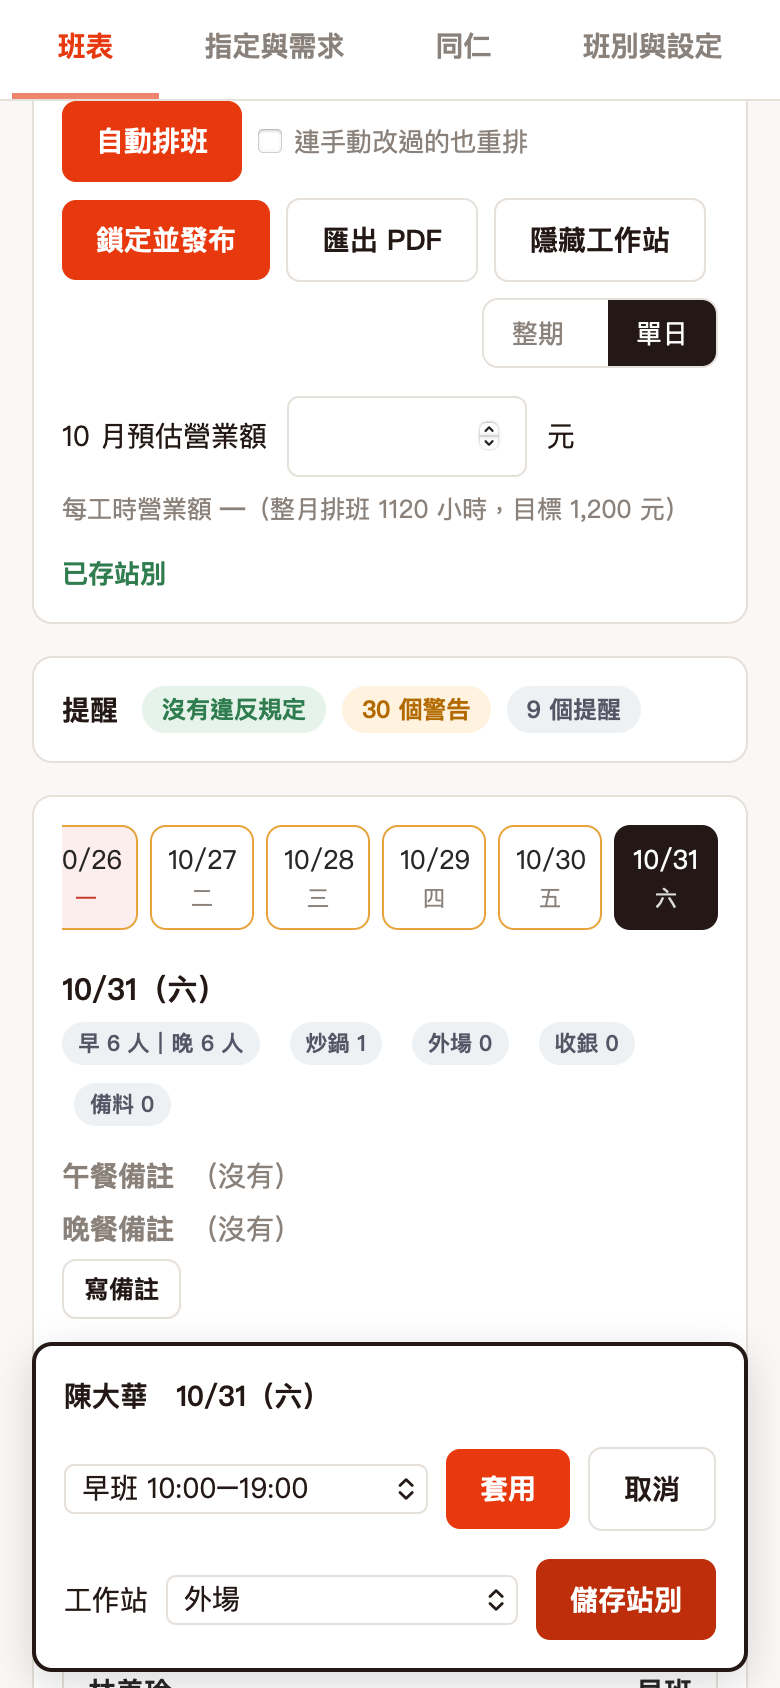
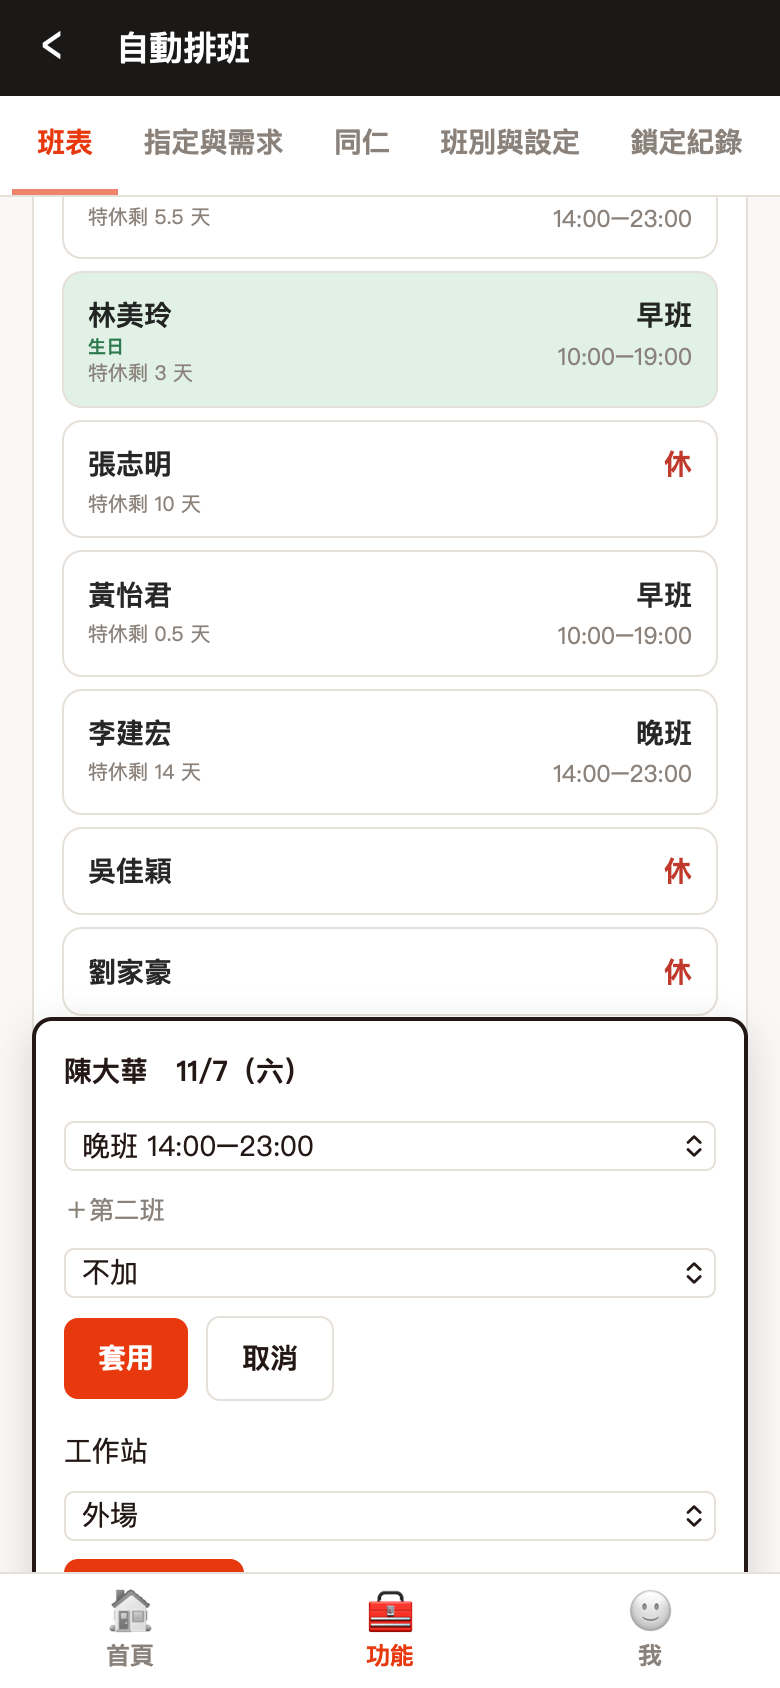
排班圖解：一天兩班、總部出差＋門市班；手機編輯框排版（mala-store-ops#123）

Changed region(s): [[0.0, 0.0, 1.0, 1.0], [0.9538, 0.6161, 0.9846, 0.8009], [0.8615, 0.7393, 0.9231, 0.7701]]

diff --git a/schedule-guide.html b/schedule-guide.html
@@ -38,6 +38,7 @@ footer{text-align:center;color:var(--muted);font-size:12.5px;margin-top:20px}
 <div class="wrap">
 <nav class="toc" aria-label="目錄"><b>依序做這 8 步</b>
   <a href="#sg-1">1 建班別</a><a href="#sg-2">2 設同仁</a><a href="#sg-3">3 每班人數</a><a href="#sg-4">4 指定休假</a><a href="#sg-5">5 工作站</a><a href="#sg-6">6 自動排班</a><a href="#sg-7">7 備註</a><a href="#sg-8">8 鎖定並發布</a>
+  <br><b>總部同仁</b> <a href="#sg-hq">出差＋去門市上班</a>
 </nav>
 
 <section id="intro">
@@ -85,6 +86,7 @@ footer{text-align:center;color:var(--muted);font-size:12.5px;margin-top:20px}
   <p>回到「班表」按 <span class="btn">自動排班</span>。排好後看「提醒」：紅色「要修正」一定要改，才能鎖定；黃色是警告，看過自己判斷。</p>
   <ul><li>要改哪一格就點那一格，選好按 <span class="btn">套用</span>；要改工作站，在同一個框選站別後按 <span class="btn">儲存站別</span>。</li><li>手機預設看單日，點上方日期換天；電腦可以切「整期」看 28 天。</li><li>再按一次自動排班，預設會保留你手動改過的格子。</li><li>同一天要上兩個班（例如 A 班＋C 班）：點那一格，第一個選班別，旁邊「＋第二班」再選一個，按 <span class="btn">套用</span>，格子會顯示「A＋C」。兩個班時間不能重疊、合起來最多 10 小時；兩班可以各選一個工作站，各班人數各算一人。第二班只能自己加，自動排班不會排，重排也會保留。</li></ul>
   <figure class="shot"><img src="img/guide/sg-06-auto.jpg" width="780" height="1688" alt="自動排班後的單日班表與提醒"><figcaption>排好的班表（單日檢視）</figcaption></figure>
+  <figure class="shot"><img src="img/guide/sg-06b-two.jpg" width="780" height="1688" alt="點一格選第一個班，再選「＋第二班」，格子顯示 A＋C"><figcaption>同一天兩個班：選好第一班，再選「＋第二班」</figcaption></figure>
 </section>
 
 <section id="sg-7">
@@ -99,6 +101,21 @@ footer{text-align:center;color:var(--muted);font-size:12.5px;margin-top:20px}
   <p>沒有紅色「要修正」之後，按 <span class="btn">鎖定並發布</span>。同仁在 LINE「鼎兆元打卡」的出勤班表就看得到這一期的班。</p>
   <ul><li>鎖定後要改班，先按「解除鎖定」，改好再鎖定一次；解除期間同仁暫時看不到這一期。</li><li>只改工作站或備註<b>不用解除鎖定</b>：鎖定中點格子就能改站別，存了會自動重送到 LINE。</li><li>「送 LINE 失敗」時按「立即重送」，系統也會每 5 分鐘自動再試。</li><li>誰在什麼時候鎖定、解除鎖定，都記在頁頂「鎖定紀錄」分頁，可以依期別、動作、操作人查；紀錄永久保留、不能修改。</li></ul>
   <figure class="shot"><img src="img/guide/sg-08-lock.jpg" width="780" height="1240" alt="班表上方的鎖定並發布按鈕"><figcaption>鎖定並發布</figcaption></figure>
+</section>
+
+<section id="sg-hq">
+  <h2>總部同仁：出差、去門市上班<span class="opt">總部自填班表</span></h2>
+  <p>總部同仁在「我的班表」點一天。班別選單除了總部的班，下面還有各門市的班（例如「新竹光復店 C班」）。</p>
+  <ul>
+    <li><b>出差</b>：選總部的班，勾旁邊的「出差」。班表和 LINE 會顯示「出差 早班」，考勤由總部主管核。</li>
+    <li><b>去門市上班</b>：選那家門市的班，再選那家店的工作站。門市的班表會在最下面「總部支援」列出你，算進當天人數；你不用、也不能請店長幫你排。</li>
+    <li><b>同一天兩段</b>：例如上午出差、晚上去光復上班，第一個選總部的班勾出差，「＋第二班」選門市的班。兩段時間不能重疊、合起來最多 10 小時。</li>
+    <li><b>門市那段在門市打卡、由店長核</b>：第一次到那家店用 LINE 打卡時，系統會自動幫你加入那家店，之後店長的考勤就會照你排的班預填。</li>
+    <li>總部班別不夠用，可以在「我的班表」下面的「總部班別」自己新增；要刪除請找人資。</li>
+  </ul>
+  <figure class="shot"><img src="img/guide/sg-09-hq-trip.jpg" width="780" height="1688" alt="選早班並勾出差"><figcaption>出差：選總部的班，勾「出差」</figcaption></figure>
+  <figure class="shot"><img src="img/guide/sg-10-hq-store.jpg" width="780" height="1688" alt="選門市的班與那家店的工作站"><figcaption>去門市上班：選門市的班，再選那家店的工作站</figcaption></figure>
+  <figure class="shot"><img src="img/guide/sg-12-support.jpg" width="780" height="1688" alt="門市班表最下面的總部支援"><figcaption>門市班表看到的「總部支援」（店長不能改）</figcaption></figure>
 </section>
 
 <footer>有問題請找人資或管理者。</footer>

diff --git a/css/schedule.css b/css/schedule.css
@@ -225,3 +225,10 @@ button.hq-day{cursor:pointer}
 .sc-suprow th, .sc-c.sup, .sc-drow.sup { background: color-mix(in srgb, var(--line, #ddd) 35%, transparent); cursor: default; }
 .sc-suptag { display: inline-block; margin-left: 4px; font-size: .72em; font-style: normal; color: var(--muted, #666); }
 .hq-trip { white-space: nowrap; }
+
+/* 手機上格子編輯框（門市、總部）：選單各佔一整行，看得到選了哪個班（2026-11-07 截圖發現被擠成「A 1(」） */
+@media (max-width: 520px) {
+  #scEditor .row, #hqEditor .row { flex-wrap: wrap; }
+  #scEditor .row select, #hqEditor .row select { flex: 1 1 100%; min-width: 0; max-width: 100%; }
+  #scEditor .sc-two, #hqEditor .sc-two { margin-left: 0; }
+}
